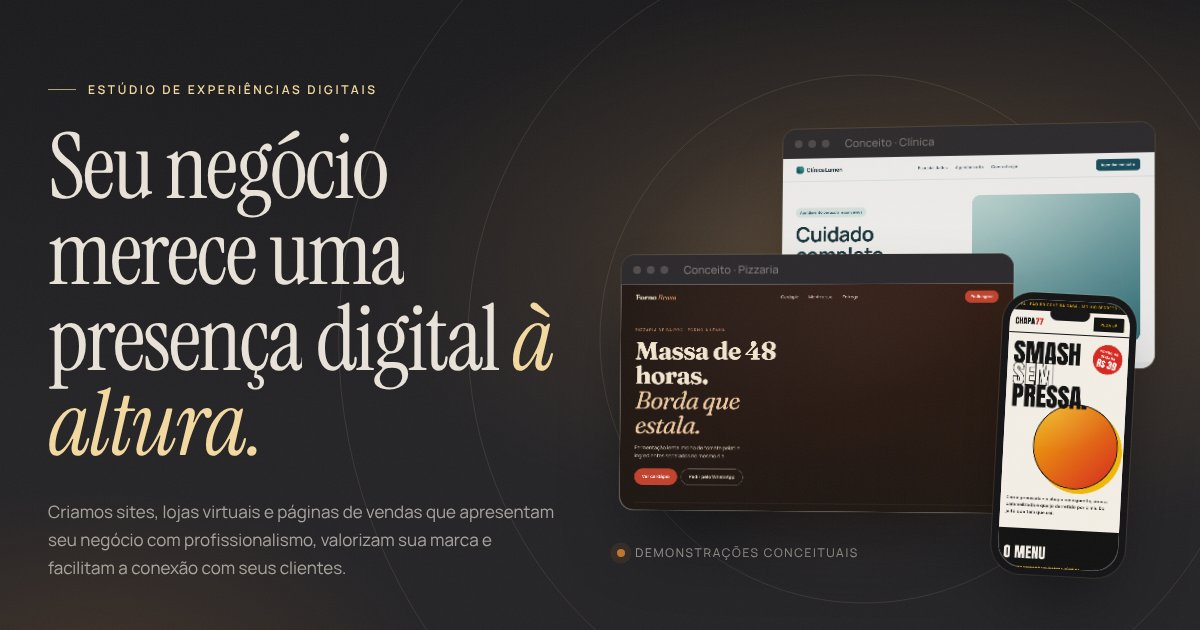
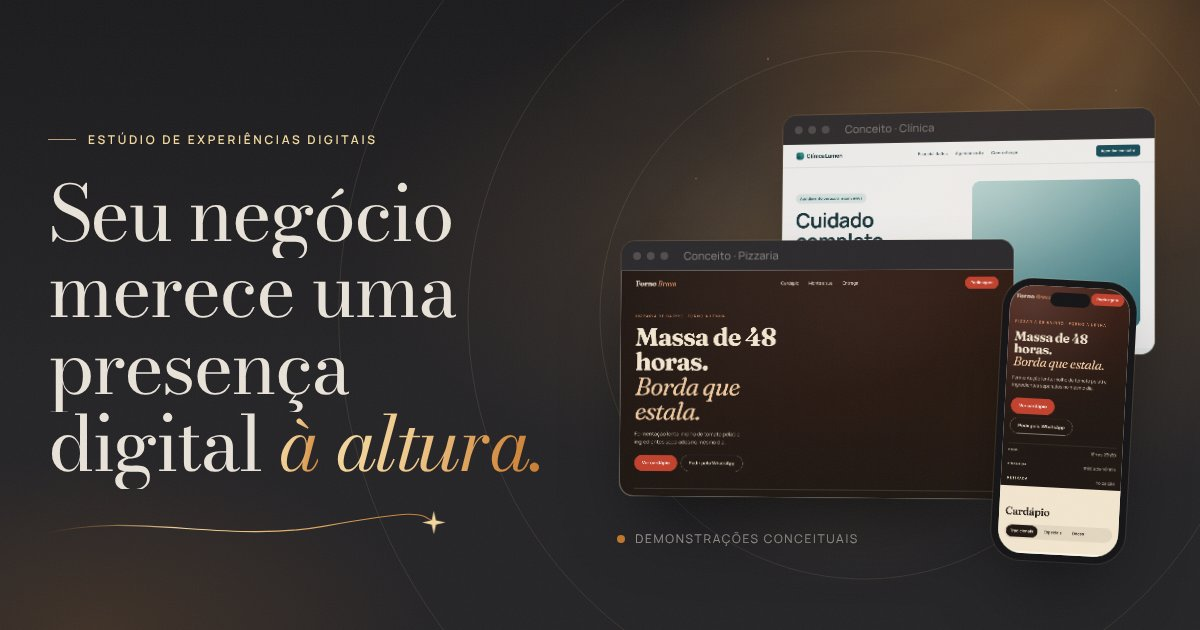
Aproxima a página da referência: títulos em Bodoni, dourado em degradê e luz no topo
Feixes de luz dourada e partículas no hero, ornamento com brilho sob o título,
palavras de destaque em degradê champanhe-âmbar e índice vertical 01/02/03 que
alterna as demonstrações exibidas nas telas do topo.

Claude-Session: https://claude.ai/code/session_01LSB262KqnBBSNbgCgvrDvd

diff --git a/estudio/assets/css/estudio.css b/estudio/assets/css/estudio.css
@@ -40,7 +40,8 @@
   --line: rgba(244, 217, 160, .16);
   --line-dark: rgba(36, 35, 38, .14);
 
-  --serif: "Instrument Serif", "Times New Roman", Georgia, serif;
+  --serif: "Bodoni Moda", "Didot", "Times New Roman", Georgia, serif;
+  --gold: linear-gradient(100deg, #F4D9A0 0%, #f0c98a 38%, #d9944a 72%, #C8792C 100%);
   --sans: "Manrope", system-ui, -apple-system, "Segoe UI", Roboto, sans-serif;
 
   --gutter: clamp(16px, 4vw, 56px);
@@ -93,10 +94,14 @@ body::after {
 
 .display {
   font-family: var(--serif); font-weight: 400;
-  font-size: clamp(50px, 7.6vw, 128px); line-height: .94; letter-spacing: -.025em; color: var(--off);
+  font-size: clamp(44px, 6.4vw, 112px); line-height: 1; letter-spacing: -.03em; color: var(--off);
 }
 .display em, .h2 em { color: var(--champ); }
-.h2 { font-family: var(--serif); font-weight: 400; font-size: clamp(42px, 5.6vw, 92px); line-height: .98; letter-spacing: -.022em; }
+/* Dourado em degradê nas palavras de destaque (sobre fundos escuros) */
+.display em .w > span, .why .h2 em .w > span, .gallery .h2 em .w > span, .shift .h2 em .w > span, .process .h2 em .w > span {
+  background: var(--gold); -webkit-background-clip: text; background-clip: text; color: transparent; padding-right: .06em; margin-right: -.06em;
+}
+.h2 { font-family: var(--serif); font-weight: 400; font-size: clamp(38px, 4.9vw, 82px); line-height: 1.02; letter-spacing: -.028em; }
 .paper .h2 em, .band .h2 em { color: var(--mocha); }
 
 /* Animação de palavras (títulos) */
@@ -176,12 +181,43 @@ body::after {
 .hero {
   position: relative; min-height: 100svh; padding: 132px 0 0; overflow: hidden;
   background:
+    radial-gradient(45% 55% at 88% 4%, rgba(200, 121, 44, .38), transparent 70%),
     radial-gradient(70% 60% at 78% 38%, rgba(91, 70, 50, .9) 0%, rgba(91, 70, 50, .25) 45%, transparent 70%),
     radial-gradient(40% 40% at 8% 100%, rgba(200, 121, 44, .16), transparent 70%),
     linear-gradient(180deg, var(--char-deep), var(--char) 60%);
   display: flex; flex-direction: column;
 }
 .hero__glow { position: absolute; width: 46vw; height: 46vw; right: 6vw; top: 12vh; border-radius: 50%; background: radial-gradient(circle, rgba(244, 217, 160, .16), transparent 62%); filter: blur(10px); pointer-events: none; }
+.hero__rays {
+  position: absolute; inset: -10% -5% 0 30%; pointer-events: none; mix-blend-mode: screen; filter: blur(14px); opacity: .9;
+  background: conic-gradient(from 198deg at 92% 0%, transparent 0deg, rgba(244, 217, 160, .13) 5deg, transparent 11deg, rgba(244, 217, 160, .07) 17deg, transparent 22deg, rgba(240, 190, 120, .15) 29deg, transparent 38deg, rgba(244, 217, 160, .06) 45deg, transparent 52deg, rgba(240, 190, 120, .1) 60deg, transparent 70deg);
+  -webkit-mask-image: radial-gradient(85% 90% at 92% 0%, #000 30%, transparent 85%); mask-image: radial-gradient(85% 90% at 92% 0%, #000 30%, transparent 85%);
+  animation: rays 9s ease-in-out infinite alternate;
+}
+@keyframes rays { from { opacity: .65; transform: rotate(-1.5deg); transform-origin: 92% 0; } to { opacity: 1; transform: rotate(1.5deg); transform-origin: 92% 0; } }
+.hero__dust { position: absolute; inset: 0; pointer-events: none; opacity: .55;
+  background-image: radial-gradient(1.4px 1.4px at 72% 18%, #F4D9A0, transparent), radial-gradient(1px 1px at 81% 34%, #F4D9A0, transparent), radial-gradient(1.6px 1.6px at 64% 9%, #f0c98a, transparent), radial-gradient(1px 1px at 88% 52%, #F4D9A0, transparent), radial-gradient(1.2px 1.2px at 58% 28%, #f0c98a, transparent), radial-gradient(1px 1px at 93% 14%, #F4D9A0, transparent);
+  animation: dust 14s ease-in-out infinite alternate; }
+@keyframes dust { to { transform: translateY(18px); opacity: .25; } }
+.hero__swash { display: block; width: min(420px, 80%); height: auto; margin: 22px 0 0 -6px; overflow: visible; }
+.hero__swash path { fill: none; stroke: url(#ouro); stroke-width: 1.2; stroke-linecap: round; stroke-dasharray: 600; stroke-dashoffset: 600; animation: swash 2.2s .9s var(--ease) forwards; }
+.hero__swash .star { fill: #F4D9A0; transform-origin: center; transform-box: fill-box; opacity: 0; animation: star 1.2s 2.4s var(--ease) forwards; }
+@keyframes swash { to { stroke-dashoffset: 0; } }
+@keyframes star { from { opacity: 0; transform: scale(.2) rotate(-90deg); } to { opacity: 1; transform: none; } }
+
+/* Índice vertical das telas do topo */
+.stage__index { position: absolute; left: 0; top: 0; z-index: 4; display: flex; flex-direction: column; gap: 2px; padding-left: 16px; border-left: 1px solid var(--line); }
+.stage__index p { font-size: 10.5px; letter-spacing: .22em; text-transform: uppercase; color: var(--muted); margin-bottom: 8px; }
+.stage__index button { display: flex; align-items: baseline; gap: 12px; padding: 4px 0; border: 0; background: none; cursor: pointer; color: rgba(233, 227, 217, .38); font-size: 11.5px; letter-spacing: .16em; text-transform: uppercase; text-align: left; position: relative; transition: color .3s; }
+.stage__index button b { font-family: var(--serif); font-size: 15px; letter-spacing: 0; font-weight: 400; min-width: 20px; }
+.stage__index button span { opacity: 0; transform: translateX(-6px); transition: opacity .4s, transform .5s var(--ease); }
+.stage__index button::before { content: ""; position: absolute; left: -17px; top: 4px; bottom: 4px; width: 1px; background: var(--champ); transform: scaleY(0); transition: transform .5s var(--ease); }
+.stage__index button:hover, .stage__index button.is-on { color: var(--champ); }
+.stage__index button.is-on span, .stage__index button:hover span { opacity: 1; transform: none; }
+.stage__index button.is-on::before { transform: scaleY(1); }
+.screen__view, .phone .screen__view { transition: opacity .45s var(--ease); }
+.is-fading .screen__view { opacity: 0; }
+
 .hero__arcs { position: absolute; width: min(88vw, 1100px); right: -16vw; top: 50%; transform: translateY(-50%); fill: none; stroke: var(--champ); stroke-width: .6; opacity: .14; pointer-events: none; }
 .hero__grid { flex: 1; display: grid; grid-template-columns: minmax(0, 1fr) minmax(0, 1.05fr); gap: clamp(32px, 5vw, 80px); align-items: center; padding-bottom: 56px; }
 .hero__copy { position: relative; z-index: 2; max-width: 680px; }
@@ -563,6 +599,7 @@ section { position: relative; }
   .screen--front { width: 86%; top: 26%; }
   .phone { width: 34%; right: 0; }
   .stage__tag { bottom: -2px; font-size: 10.5px; }
+  .stage__index { display: none; }
   .ticker { padding: 16px 0; }
   .manifesto__grid { grid-template-columns: minmax(0, 1fr); gap: 0; }
   .manifesto__small { margin-top: 32px; font-size: 16.5px; }
@@ -630,6 +667,9 @@ section { position: relative; }
   html { scroll-behavior: auto; }
   *, *::before, *::after { animation-duration: .001ms !important; animation-iteration-count: 1 !important; transition-duration: .001ms !important; transition-delay: 0s !important; }
   .ticker__track { animation: none; }
+  .hero__rays, .hero__dust { animation: none; }
+  .hero__swash path { stroke-dashoffset: 0; }
+  .hero__swash .star { opacity: 1; }
   .screen__view.is-auto .screen__mover { animation: none; }
   [data-reveal], [data-split] .w > span, .hero__in { opacity: 1 !important; transform: none !important; }
   .manifesto__big .sw { opacity: 1; }

diff --git a/estudio/assets/js/estudio.js b/estudio/assets/js/estudio.js
@@ -129,29 +129,70 @@
     return el;
   }
 
-  // Hero
+  // Hero: telas de demonstração com índice vertical que alterna os conceitos
   (function hero() {
-    var frente = demoInicial || D.porId("pizzaria");
-    var celular = demoInicial || D.porId("hamburgueria");
-    var fundo = D.porId("clinica");
+    var ciclo, fundo;
     if (demoInicial) {
-      var irmao = D.lista.filter(function (d) { return d.cat === demoInicial.cat && d.id !== demoInicial.id; })[0];
-      fundo = irmao || (demoInicial.id === "clinica" ? D.porId("pizzaria") : D.porId("clinica"));
+      ciclo = [demoInicial].concat(D.lista.filter(function (d) { return d.cat === demoInicial.cat && d.id !== demoInicial.id; })).slice(0, 3);
+      fundo = demoInicial.cat === "saude" ? D.porId("pizzaria") : D.porId("clinica");
+    } else {
+      ciclo = [D.porId("pizzaria"), D.porId("hamburgueria"), D.porId("restaurante")];
+      fundo = D.porId("clinica");
     }
+
+    var frames = {};
     $$("[data-frame]").forEach(function (f) {
-      var demo = f.hasAttribute("data-hero-front") ? frente : f.hasAttribute("data-hero-phone") ? celular : fundo;
+      var tipo = f.hasAttribute("data-hero-front") ? "frente" : f.hasAttribute("data-hero-phone") ? "celular" : "fundo";
       var base = parseInt(f.getAttribute("data-w"), 10);
-      var page = $("[data-frame-page]", f);
-      var view = $(".screen__view", f);
-      preencher(page, demo, base > 500 ? 520 : 400);
-      var label = $("[data-frame-label]", f);
-      if (label) label.textContent = "Conceito · " + demo.segmento;
-      registrar(view, page, base);
-      if (!reduz) {
-        view.style.setProperty("--dur", f.getAttribute("data-auto") + "s");
-        view.classList.add("is-auto");
-      }
+      var fr = { el: f, base: base, page: $("[data-frame-page]", f), view: $(".screen__view", f), label: $("[data-frame-label]", f) };
+      frames[tipo] = fr;
+      registrar(fr.view, fr.page, base);
+      if (!reduz) { fr.view.style.setProperty("--dur", f.getAttribute("data-auto") + "s"); fr.view.classList.add("is-auto"); }
     });
+
+    function pintar(fr, demo) {
+      preencher(fr.page, demo, fr.base > 500 ? 520 : 400);
+      if (fr.label) fr.label.textContent = "Conceito · " + demo.segmento;
+      encaixar(fr.view, fr.page, fr.base);
+    }
+    pintar(frames.fundo, fundo);
+
+    var idx = 0, timer = null, pausado = false;
+    var indice = $("[data-hero-index]");
+    function mostrar(n, animar) {
+      idx = (n + ciclo.length) % ciclo.length;
+      var demo = ciclo[idx];
+      $$("button", indice).forEach(function (b, k) { b.classList.toggle("is-on", k === idx); b.setAttribute("aria-pressed", k === idx ? "true" : "false"); });
+      var alvos = [frames.frente, frames.celular];
+      if (!animar || reduz) { alvos.forEach(function (fr) { pintar(fr, demo); }); return; }
+      alvos.forEach(function (fr) { fr.el.classList.add("is-fading"); });
+      setTimeout(function () {
+        alvos.forEach(function (fr) { pintar(fr, demo); fr.el.classList.remove("is-fading"); });
+      }, 450);
+    }
+
+    function reiniciar() {
+      clearInterval(timer);
+      if (reduz || ciclo.length < 2) return;
+      timer = setInterval(function () { if (!pausado && !doc.hidden) mostrar(idx + 1, true); }, 7000);
+    }
+
+    if (ciclo.length > 1) {
+      indice.insertAdjacentHTML("beforeend", ciclo.map(function (d, k) {
+        return '<button type="button" aria-pressed="false" aria-label="Mostrar o conceito de ' + d.segmento.toLowerCase() + ' nas telas"><b>0' + (k + 1) + '</b><span>' + d.segmento + '</span></button>';
+      }).join(""));
+      indice.hidden = false;
+      $$("button", indice).forEach(function (b, k) {
+        b.addEventListener("click", function () { if (k !== idx) mostrar(k, true); reiniciar(); });
+      });
+    }
+    var stage = $("[data-stage]");
+    stage.addEventListener("mouseenter", function () { pausado = true; });
+    stage.addEventListener("mouseleave", function () { pausado = false; });
+    stage.addEventListener("focusin", function () { pausado = true; });
+    stage.addEventListener("focusout", function () { pausado = false; });
+    mostrar(0, false);
+    reiniciar();
   })();
 
   /* ------------------------------------------------------------

diff --git a/estudio/index.html b/estudio/index.html
@@ -20,7 +20,7 @@
   <meta name="twitter:card" content="summary_large_image">
   <link rel="icon" href="assets/img/favicon.svg" type="image/svg+xml">
   <link rel="apple-touch-icon" href="assets/img/apple-touch-icon.png">
-  <link rel="preload" href="assets/fonts/instrument-serif-latin-400-normal.woff2" as="font" type="font/woff2" crossorigin>
+  <link rel="preload" href="assets/fonts/bodoni-moda-latin-wght-normal.woff2" as="font" type="font/woff2" crossorigin>
   <link rel="preload" href="assets/fonts/manrope-latin-wght-normal.woff2" as="font" type="font/woff2" crossorigin>
   <link rel="preconnect" href="https://images.unsplash.com">
   <link rel="stylesheet" href="assets/css/estudio.css">
@@ -76,6 +76,8 @@
     <!-- ============ HERO ============ -->
     <section class="hero" id="topo" aria-labelledby="hero-titulo">
       <div class="hero__glow" aria-hidden="true"></div>
+      <div class="hero__rays" aria-hidden="true"></div>
+      <div class="hero__dust" aria-hidden="true"></div>
       <svg class="hero__arcs" viewBox="0 0 800 800" aria-hidden="true">
         <circle cx="400" cy="400" r="398"/><circle cx="400" cy="400" r="300"/><circle cx="400" cy="400" r="200"/>
       </svg>
@@ -84,6 +86,7 @@
         <div class="hero__copy">
           <p class="eyebrow hero__in" style="--d:0" data-hero-eyebrow>Estúdio de experiências digitais</p>
           <h1 class="display" id="hero-titulo" data-split>Seu negócio merece uma presença digital <em>à altura.</em></h1>
+          <svg class="hero__swash" viewBox="0 0 420 40" aria-hidden="true"><defs><linearGradient id="ouro" x1="0" x2="1"><stop offset="0" stop-color="#C8792C" stop-opacity="0"/><stop offset=".35" stop-color="#F4D9A0"/><stop offset="1" stop-color="#C8792C"/></linearGradient></defs><path d="M2 30 C 90 6, 190 40, 290 22 S 390 8, 404 18"/><path class="star" d="M404 6 L406.2 15.8 L416 18 L406.2 20.2 L404 30 L401.8 20.2 L392 18 L401.8 15.8 Z"/></svg>
           <p class="hero__lead hero__in" style="--d:4">Criamos sites, lojas virtuais e páginas de vendas que apresentam seu negócio com profissionalismo, valorizam sua marca e facilitam a conexão com seus clientes.</p>
           <div class="hero__ctas hero__in" style="--d:5">
             <a class="btn btn--amber" href="#experiencias">Conhecer projetos <svg viewBox="0 0 24 24" aria-hidden="true"><path d="M5 12h14M13 6l6 6-6 6"/></svg></a>
@@ -91,16 +94,17 @@
           </div>
         </div>
 
-        <div class="stage hero__in" style="--d:3" data-stage aria-label="Composição com demonstrações conceituais de sites" role="img">
-          <figure class="screen screen--back" data-frame data-demo-id="clinica" data-w="1280" data-auto="38">
+        <div class="stage hero__in" style="--d:3" data-stage>
+          <div class="stage__index" data-hero-index hidden><p>Conceitos</p></div>
+          <figure aria-hidden="true" class="screen screen--back" data-frame data-demo-id="clinica" data-w="1280" data-auto="38">
             <div class="screen__bar"><i></i><i></i><i></i><span data-frame-label></span></div>
             <div class="screen__view"><div class="screen__mover"><div class="screen__page" data-frame-page></div></div></div>
           </figure>
-          <figure class="screen screen--front" data-frame data-demo-id="pizzaria" data-w="1280" data-auto="30" data-hero-front>
+          <figure aria-hidden="true" class="screen screen--front" data-frame data-demo-id="pizzaria" data-w="1280" data-auto="30" data-hero-front>
             <div class="screen__bar"><i></i><i></i><i></i><span data-frame-label></span></div>
             <div class="screen__view"><div class="screen__mover"><div class="screen__page" data-frame-page></div></div></div>
           </figure>
-          <figure class="phone" data-frame data-demo-id="moda" data-w="390" data-auto="26" data-hero-phone>
+          <figure aria-hidden="true" class="phone" data-frame data-demo-id="moda" data-w="390" data-auto="26" data-hero-phone>
             <div class="phone__notch"></div>
             <div class="screen__view"><div class="screen__mover"><div class="screen__page" data-frame-page></div></div></div>
           </figure>
